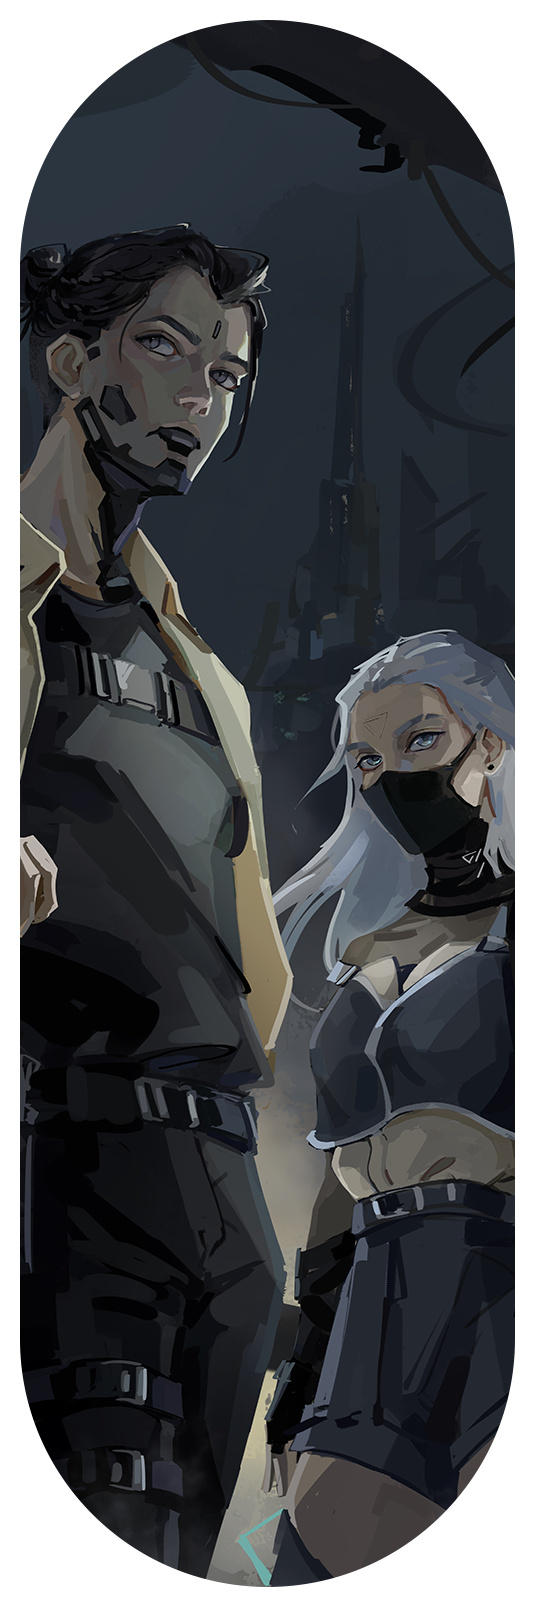
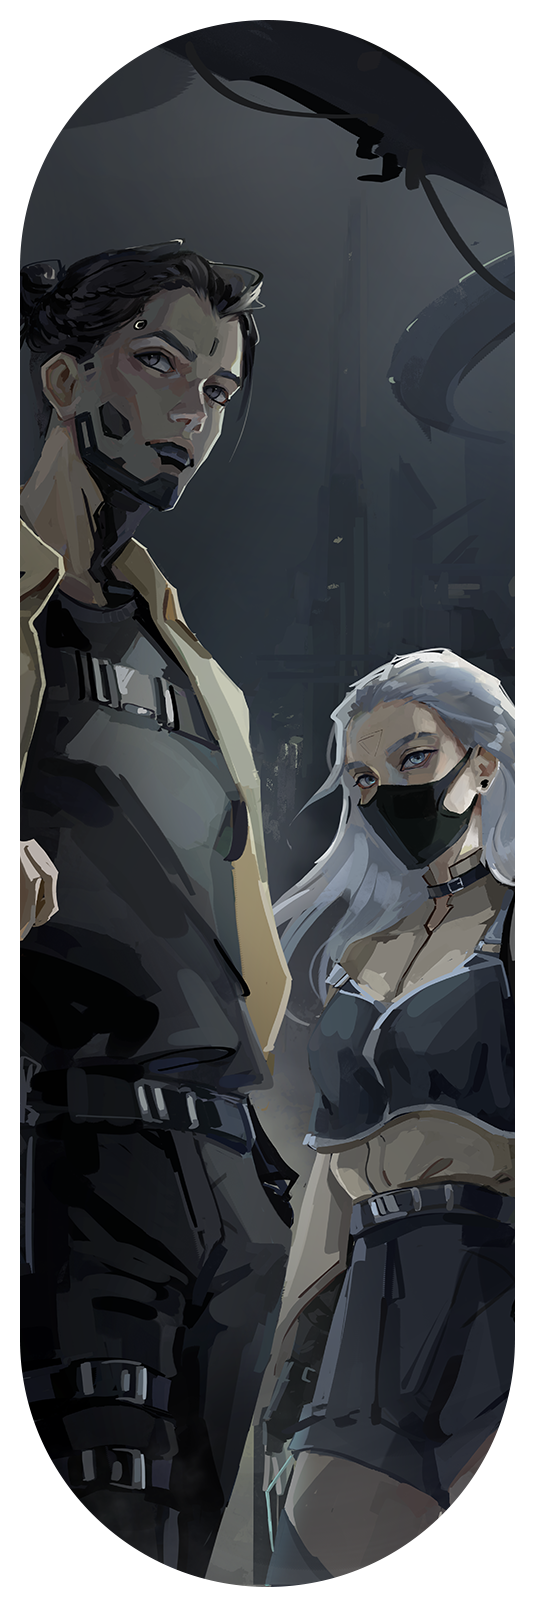
y

diff --git a/index.html b/index.html
@@ -139,7 +139,7 @@
 	<script type='text/javascript' src='index.js'></script>
 	<script type='text/javascript'>//<![CDATA[
 
-		const GODOT_CONFIG = {"args":[],"canvasResizePolicy":2,"executable":"index","experimentalVK":false,"fileSizes":{"index.pck":64695984,"index.wasm":19796835},"focusCanvas":true,"gdnativeLibs":[]};
+		const GODOT_CONFIG = {"args":[],"canvasResizePolicy":2,"executable":"index","experimentalVK":false,"fileSizes":{"index.pck":65310560,"index.wasm":19796835},"focusCanvas":true,"gdnativeLibs":[]};
 		var engine = new Engine(GODOT_CONFIG);
 
 		(function() {